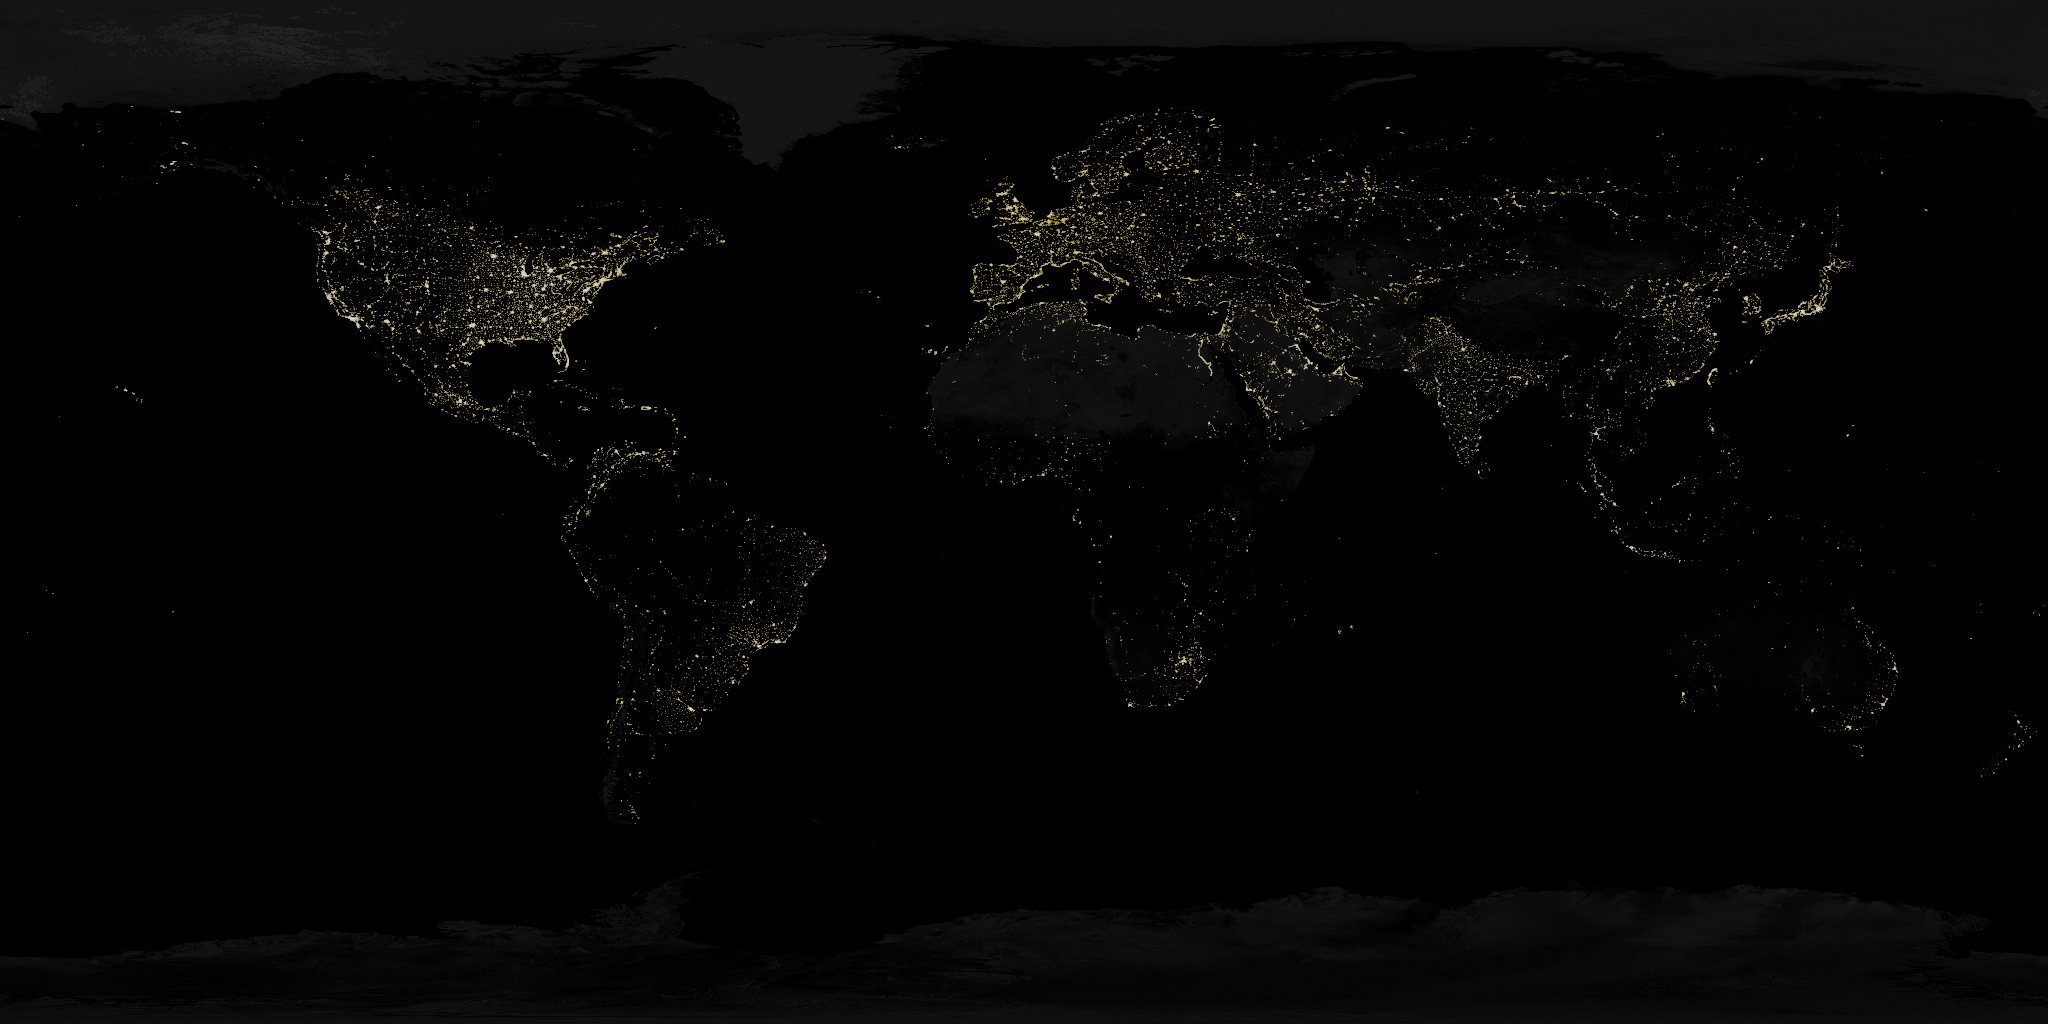
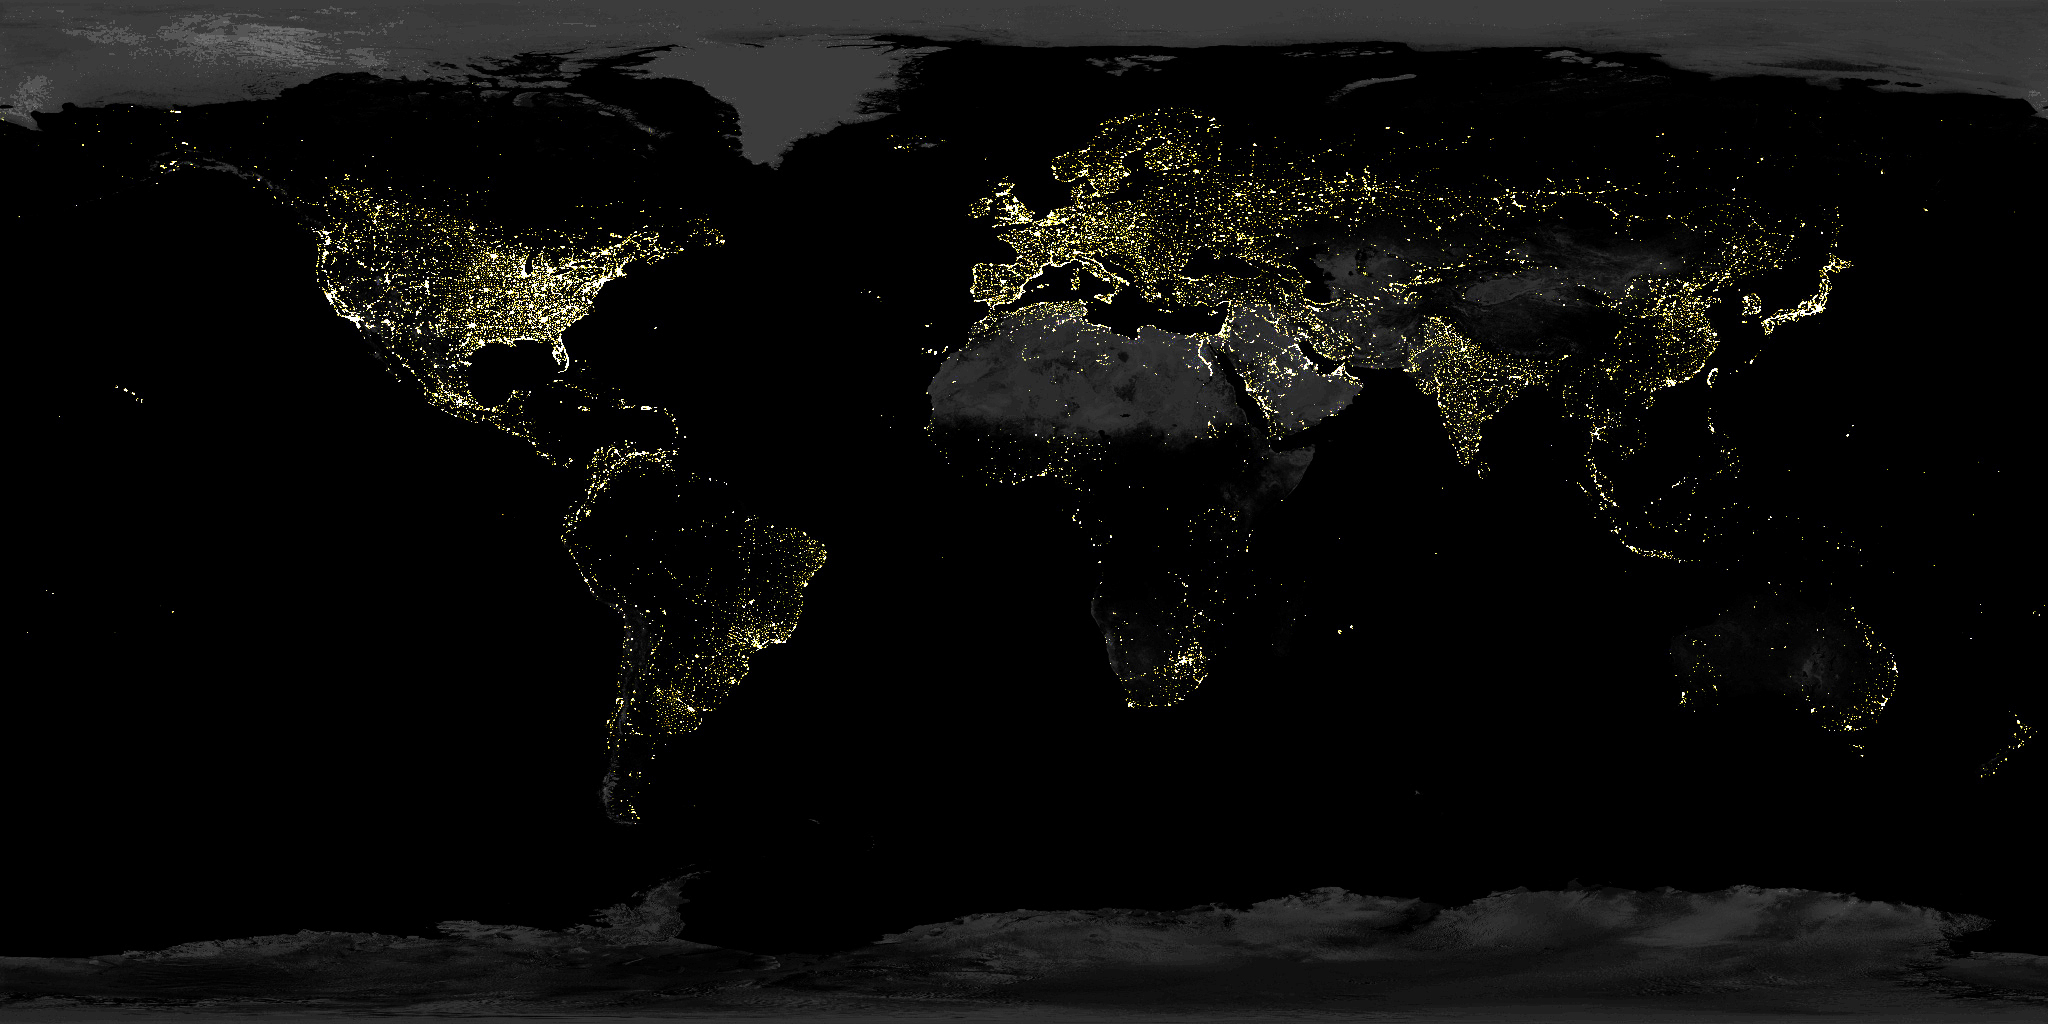
cycle jour/nuit améliorré

diff --git a/script.js b/script.js
@@ -1,4 +1,4 @@
-let scene, camera, renderer, earthMesh, light, particleSystem, cloudMesh;
+let scene, camera, renderer, earthMesh, light, particleSystem, cloudMesh, earthMaterial;
 let isPaused = false;
 const raycaster = new THREE.Raycaster();
 const mouse = new THREE.Vector2();
@@ -66,7 +66,7 @@ function init() {
     );
     const earthNightMap = new THREE.TextureLoader().load('Earth_Night.jpg');
 
-    const earthMaterial = new THREE.MeshPhongMaterial({
+    earthMaterial = new THREE.MeshPhongMaterial({
         map: earthDiffuseMap,
         specularMap: earthSpecularMap,
         normalMap: earthNormalMap,
@@ -75,7 +75,7 @@ function init() {
         shininess: 5, // Ajuster ces valeurs
         emissive: new THREE.Color(0xffffaa),
         emissiveIntensity: 1.5
-    });    
+    });   
     
     // Création de la mesh de la Terre
     earthMesh = new THREE.Mesh(earthGeometry, earthMaterial);
@@ -107,8 +107,9 @@ function init() {
     light.position.set(10, 5, 5);
     scene.add(light);
 
-    // const ambientLight = new THREE.AmbientLight(0xffffff, 0.02); // Ajustez l'intensité selon besoin
-    // scene.add(ambientLight);
+    const ambientLight = new THREE.AmbientLight(0xffffff, 0.002); // Ajustez l'intensité selon besoin
+    scene.add(ambientLight);
+
 
     window.addEventListener('resize', onWindowResize, false);
 
@@ -132,8 +133,35 @@ function checkIntersection() {
     }
 }
 
+function calculateEmissiveIntensity(angleRadians) {
+    // Convertir l'angle en degrés pour simplifier la compréhension
+    const angleDegrees = angleRadians * (180 / Math.PI);
+
+    // L'intensité émissive basée sur l'angle
+    /*let emissiveIntensity;
+
+    if (angleDegrees < 90) {
+        // Jour : diminuer l'intensité
+        emissiveIntensity = 0.2 * (1 - angleDegrees / 90);
+    } else {
+        // Nuit : augmenter l'intensité, mais pas trop
+        // Utiliser une fonction logarithmique ou exponentielle pour une augmentation douce
+        emissiveIntensity = 0.2 + Math.log10((angleDegrees - 90) + 1) / 2;
+    }*/
+
+    // Assurer que l'intensité reste dans une plage raisonnable
+    return 0.2; Math.min(Math.max(emissiveIntensity, 0), 1);
+}
+
 function animate() {
     requestAnimationFrame(animate);
+
+    // Exemple avec le pôle Nord (0, 1, 0 en coordonnées cartésiennes)
+    const northPoleDirection = new THREE.Vector3(0, 1, 0);
+    const lightDirection = light.position.clone().normalize();
+
+    const angleRadians = Math.acos(lightDirection.dot(northPoleDirection));
+    earthMaterial.emissiveIntensity = calculateEmissiveIntensity(angleRadians);
 
     if (!isPaused) {
         earthMesh.rotation.y += 0.001; // Rotation de la Terre
